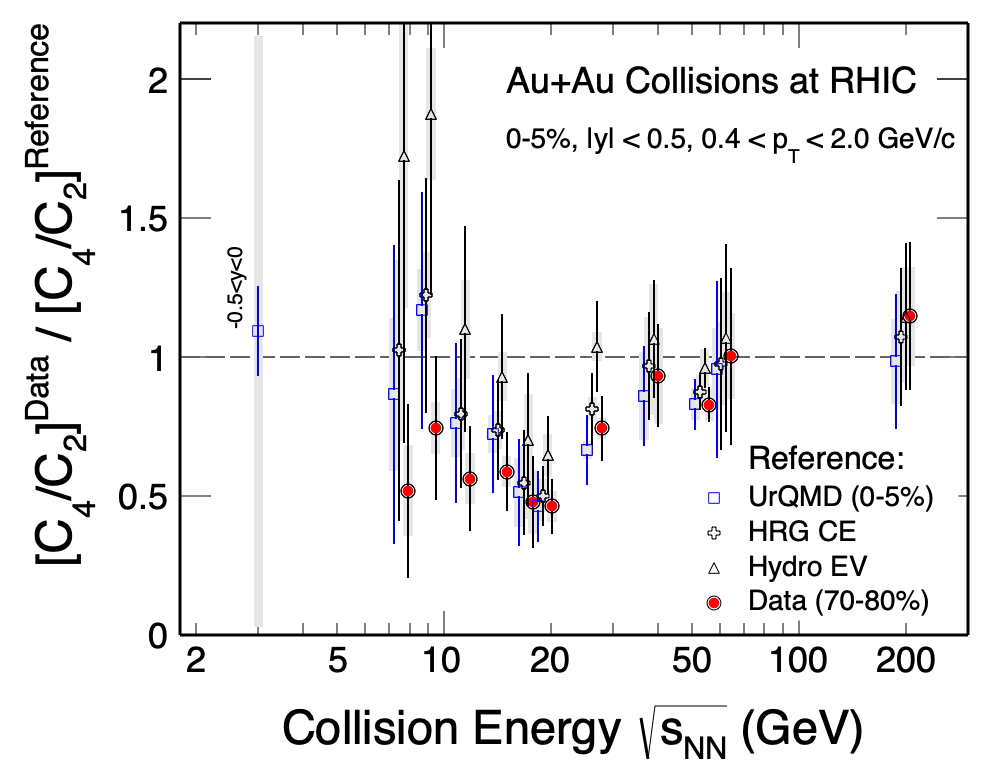
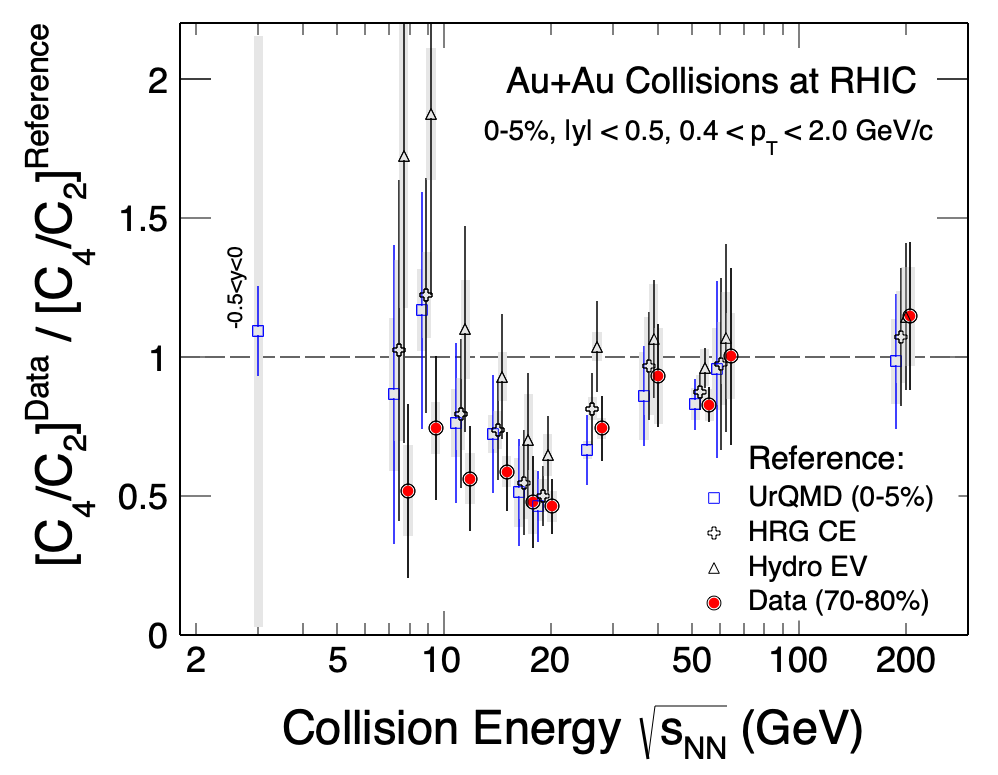
minor cosmetic update data/model ratio plot

diff --git a/NetProtonMoments/plotRatioOnePaper.C b/NetProtonMoments/plotRatioOnePaper.C
@@ -161,7 +161,7 @@ void plotRatioOnePaper()
       xe_fxt[im][i] = C42_ener_fxt[i];
       r_fxt[im][i] = C42_fxt[i] / C42_model_fxt[im][i];
       //      re_fxt[im][i] = fabs(C42_stat_fxt[i] / C42_model_fxt[im][i]);
-      re_fxt[im][i] = sqrt(C42_stat_fxt[i]*C42_stat_fxt[i] + C42_err_model_fxt[im][i]*C42_err_model_fxt[im][i]) / C42_model_fxt[im][i];
+      re_fxt[im][i] = sqrt(C42_stat_fxt[i]*C42_stat_fxt[i] + C42_err_model_fxt[im][i]*C42_err_model_fxt[im][i]) / fabs(C42_model_fxt[im][i]);
       res_fxt[im][i] = fabs(C42_sys_fxt[i] / C42_model_fxt[im][i]);
 
       ener[im][i] = C42_ener_fxt[i] * ( 1 + sc[im] );
@@ -227,7 +227,7 @@ void plotRatioOnePaper()
     
     drawSysBoxInRange(gr_rs[im], 0.03, 18, 1, y1, y2);
     setGraphMarker(gr_r[im], markerStyle[im], markerColor[im], markerSize[im]);
-    setGraphLine(gr_r[im], 1, markerColor[im]);
+    setGraphLine(gr_r[im], 1, markerColor[im], 1);
     gr_r[im]->Draw("p");
 
     if(im==3) { // replot ratio to 70-80% data with solid marker
@@ -240,18 +240,19 @@ void plotRatioOnePaper()
     
     if(im==0) {
       drawSysBoxInRange(gr_rs_fxt[im], 0.03, 18, 1, y1, y2);
-      setGraphMarker(gr_r_fxt[im], markerStyle[im], markerColor[im], 1.2);
-      setGraphLine(gr_r_fxt[im], 1, markerColor[im]);
+      setGraphMarker(gr_r_fxt[im], markerStyle[im], markerColor[im], markerSize[im]);
+      setGraphLine(gr_r_fxt[im], 1, markerColor[im], 1);
       gr_r_fxt[im]->Draw("p");
 
       drawText(15, 1.95, "Au+Au Collisions at RHIC", 42, 0.05);
-      drawText(15, 1.75, "0-5%, |y| < 0.5, 0.4 < p_{T} < 2.0 GeV/c", 42, 0.04);
+      drawText(13, 1.78, "0-5%, |y| < 0.5, 0.4 < p_{T} < 2.0 GeV/c", 42, 0.04);
     }
   }
 
   for(int im=0;im<n_model;im++) {
     if(!plotflag[im]) continue;    
     gr_r[im]->Draw("p");
+    gr_r_fxt[im]->Draw("p");
   }
 
   drawText(2.7, 1.1, "-0.5<y<0", 42, 0.03,90);
@@ -284,7 +285,7 @@ void plotRatioOnePaper()
   
   
   
-  drawHistBox(x1, x2, y1, y2);
+  drawHistBox(x1, x2, y1, y2, 2222);
   c1->Update();
   c1->cd();
   
